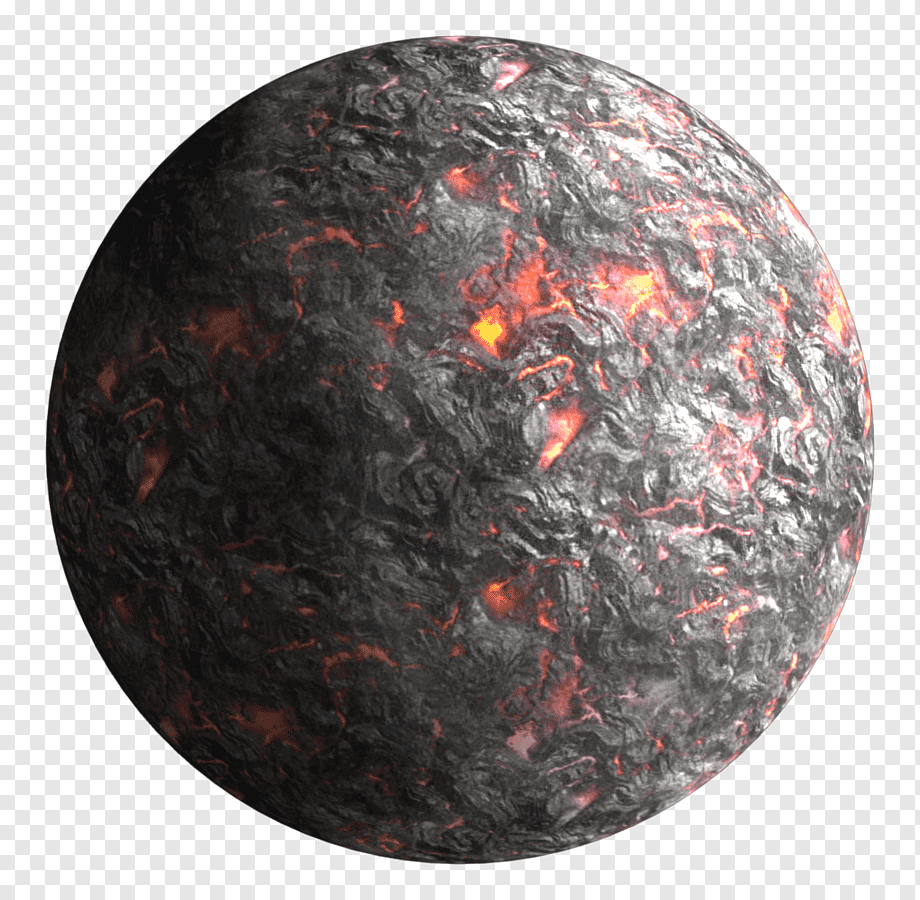
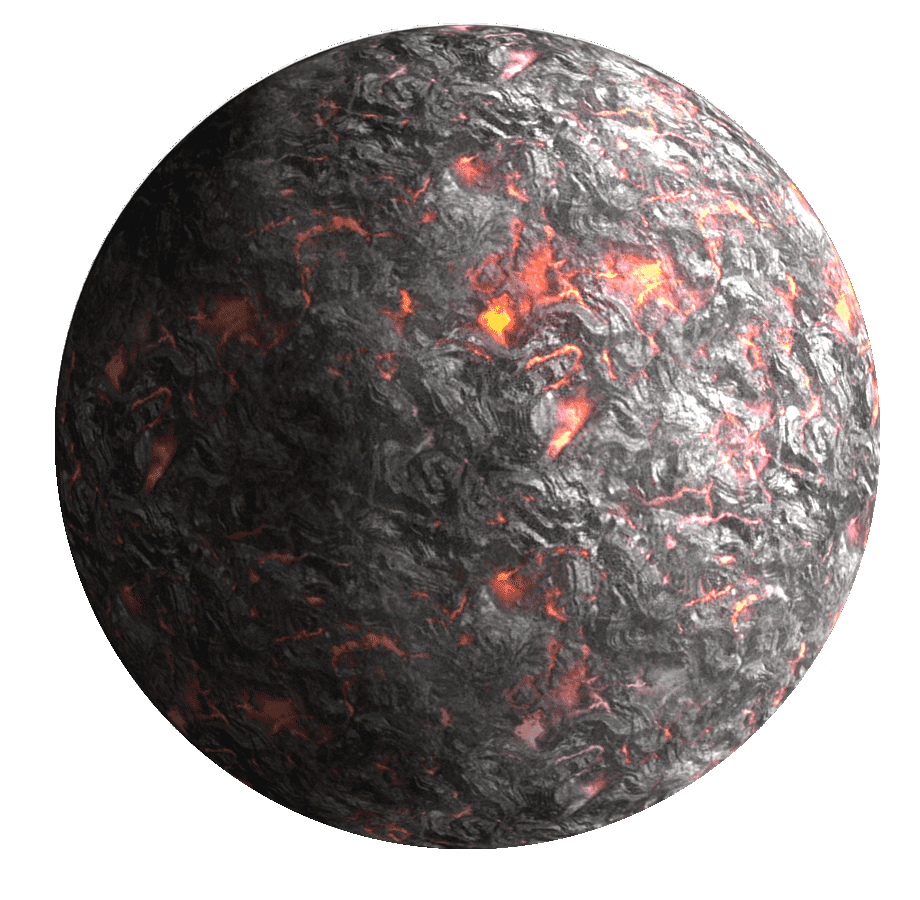
Planets again

diff --git a/src/engine/Engine.cpp b/src/engine/Engine.cpp
@@ -102,14 +102,8 @@ void Engine::mainLoop(){
     bool run=true;
     log("main loop started");
     OH.addTexture("assets/planetTest.png");
-
-    Texture test, foo;
-    test.initTexture("assets/missingTexture.png");
-    foo.initTexture("assets/planetTest.png");
-
-    foo.textureRectangle->x = 200;
-    foo.textureRectangle->y = 200;
-
+    Planet testPlanet({0,0},0,0,1000,OH.textures[0]);
+    OH.addPlanet(testPlanet);
     while(run){
         int startLoop=SDL_GetTicks();
 
@@ -118,13 +112,11 @@ void Engine::mainLoop(){
         if(gui.visible==false)eventHandler(run);
         else gui.eventHandler(run);
 
-        // for(auto& k : OH.planets)
-        // {
-        //     rendererObject.renderTextureWithCamera(k.getTexture(),camera);
-        // }
-
-        rendererObject.renderTextureWithCamera(test, camera);
-        rendererObject.renderTextureWithCamera(foo, camera);
+         for(auto& k : OH.planets)
+         {
+            rendererObject.renderTextureWithCamera(k.getTexture(),camera);
+            SDL_RenderDrawPoint(global.renderer,camera.ConvertToCameraCoords(k.getPosition()).x,camera.ConvertToCameraCoords(k.getPosition()).y);
+         }
 
         gui.renderGui();
 

diff --git a/src/engine/rendering/handleCamera.cpp b/src/engine/rendering/handleCamera.cpp
@@ -9,8 +9,8 @@ void Camera::initCamera(float x, float y){
 
 SDL_Rect Camera::handleCameraPerspective(SDL_Rect inputRectangle){
     SDL_Rect outputRectangle;
-    outputRectangle.x=inputRectangle.x*scale-position.x*scale+WINDOW_WIDTH/2;
-    outputRectangle.y=inputRectangle.y*scale-position.y*scale+WINDOW_HEIGHT/2;
+    outputRectangle.x=inputRectangle.x*scale-position.x+WINDOW_WIDTH/2;
+    outputRectangle.y=inputRectangle.y*scale-position.y+WINDOW_HEIGHT/2;
     outputRectangle.w=inputRectangle.w*scale;
     outputRectangle.h=inputRectangle.h*scale;
 
@@ -24,4 +24,26 @@ void Camera::rescale(float arg){
 void Camera::move(){
     position.x+=velocity.x;
     position.y+=velocity.y;
+}
+
+vec2 Camera::ConvertToCameraCoords(vec2 inputPoint)
+{
+    vec2 ret;
+    ret.x=inputPoint.x*scale-position.x+WINDOW_WIDTH/2;
+    ret.y=inputPoint.y*scale-position.y+WINDOW_HEIGHT/2;
+    return ret;
+}
+
+vec2 Camera::ConvertToWorldCoords(vec2 inputPoint)
+{
+    vec2 ret = inputPoint;
+    ret.x-=WINDOW_WIDTH/2;
+    ret.y-=WINDOW_HEIGHT/2;
+
+    ret.x/=scale;
+    ret.y/=scale;
+
+    ret.x+=position.x;
+    ret.y+=position.y;
+    return ret;
 }

diff --git a/src/game/objectHandler.cpp b/src/game/objectHandler.cpp
@@ -5,7 +5,7 @@ void ObjectHandler::searchIfPlanetClicked(int x, int y, int& id)
     int distance = 0;
     for(auto& k : planets)
     {
-        distance = pow((x-k.getPosition().first),2)+pow((y-k.getPosition().second),2);
+        distance = pow((x-k.getPosition().x),2)+pow((y-k.getPosition().y),2);
         if(distance<pow(k.getRadius(),2))
         {
             return;
@@ -18,8 +18,9 @@ void ObjectHandler::searchIfPlanetClicked(int x, int y, int& id)
 bool ObjectHandler::isObjectClicked(int mouseX, int mouseY)
 {
     static int planetFoundId = 0;
-    thread planetCalc([=] {searchIfPlanetClicked(mouseX,mouseY,planetFoundId);});
-    planetCalc.join();
+    //thread planetCalc([=] {searchIfPlanetClicked(mouseX,mouseY,planetFoundId);});
+    searchIfPlanetClicked(mouseX,mouseY,planetFoundId);
+    //planetCalc.join();
     if(planetFoundId==-1)
     {
         log("Planet isn't clicked.");

diff --git a/src/game/entity-planet.cpp b/src/game/entity-planet.cpp
@@ -8,18 +8,20 @@ Planet::Planet()
     planetElectromagneticField = 0;
     planetGravity = 0;
 }
-Planet::Planet(std::pair<int,int> position, int grav, int elf, int radius, Texture& txt)
+Planet::Planet(std::pair<int,int> position, int grav, int elf, int radius,const Texture& txt)
 {
     posX=position.first;
     posY=position.second;
     planetGravity = grav;
     planetRadius = radius;
     planetElectromagneticField = elf;
-    planetTextureGenerated = txt;
+    SDL_Rect* temp = new SDL_Rect;
+    *temp=*(txt.textureRectangle);
+    planetTextureGenerated.initTexture(txt.textureTexture, temp);
     planetTextureGenerated.textureRectangle->x=posX;
     planetTextureGenerated.textureRectangle->y=posY;
 }
-std::pair<int,int> Planet::getPosition()
+vec2 Planet::getPosition()
 {
     return {posX,posY};
 }

diff --git a/src/engine/eventHandlers.cpp b/src/engine/eventHandlers.cpp
@@ -76,15 +76,8 @@ void Engine::onMouseClick(SDL_Event event, bool& run){
     log("Mouse button clicked");
     int mouse_x,mouse_y;
     SDL_GetMouseState(&mouse_x, &mouse_y);
-    mouse_x+=camera.position.x;
-    mouse_y+=camera.position.y;
-    float mx = mouse_x*=camera.scale;
-    float my = mouse_y*=camera.scale;
-    mouse_x-=WINDOW_WIDTH/2;
-    mouse_y-=WINDOW_HEIGHT/2;
-    Planet testPlanet({mx,my},0,0,0,OH.textures[0]);
-    OH.addPlanet(testPlanet);
-    //OH.isObjectClicked(mouse_x, mouse_y);
+    vec2 mouseInGamePos = camera.ConvertToWorldCoords({mouse_x,mouse_y});
+    OH.isObjectClicked(mouse_x, mouse_y);
 }
 
 void Engine::onMouseRelease(SDL_Event event, bool& run){

diff --git a/src/game/entity-planet.hpp b/src/game/entity-planet.hpp
@@ -6,6 +6,7 @@
 #include <SDL2/SDL.h>
 #include <SDL2/SDL_image.h>
 #include "../engine/rendering/texture.hpp"
+#include "../engine/utils/sg_math.hpp"
 
 class Planet
 {
@@ -22,8 +23,8 @@ class Planet
 
     public : 
     Planet(); // Generic constructor
-    Planet(std::pair<int,int> position,int grav, int elf, int radius, Texture& txt); // Specific constructor
-    std::pair<int,int> getPosition();
+    Planet(std::pair<int,int> position,int grav, int elf, int radius,const Texture& txt); // Specific constructor
+    vec2 getPosition();
     int getRadius();
     void generateTexture();
     Texture getTexture();

diff --git a/src/engine/rendering/handleCamera.hpp b/src/engine/rendering/handleCamera.hpp
@@ -4,11 +4,13 @@
 
 #include <SDL2/SDL.h>
 #include <SDL2/SDL_image.h>
+#include <cmath>
 
 #include "../utils/log.hpp"
 #include "../utils/config.hpp"
 #include "../utils/sg_math.hpp"
 #include "../globals.hpp"
+#include "../utils/config.hpp"
 
 
 struct Camera{
@@ -19,6 +21,9 @@ struct Camera{
     void initCamera(float, float);
 
     SDL_Rect handleCameraPerspective(SDL_Rect inputRectangle);
+
+    vec2 ConvertToWorldCoords(vec2 inputPoint);
+    vec2 ConvertToCameraCoords(vec2 inputPoint);
 
     void rescale(float arg);
     void move();

diff --git a/src/game/entity-projectile.hpp b/src/game/entity-projectile.hpp
@@ -1,7 +1,8 @@
 #ifndef PROJECTILE
 #define PROJECTILE
 
-#include "../utils/sg_math.hpp"
+#include "../engine/utils/sg_math.hpp"
+#include "../engine/rendering/texture.hpp"
 
 struct Projectile
 {

diff --git a/src/engine/utils/sg_math.hpp b/src/engine/utils/sg_math.hpp
@@ -13,5 +13,4 @@ struct vec2{
 struct matrix22{
     float xi, yi, xj, yj;
 };
-
 #endif
